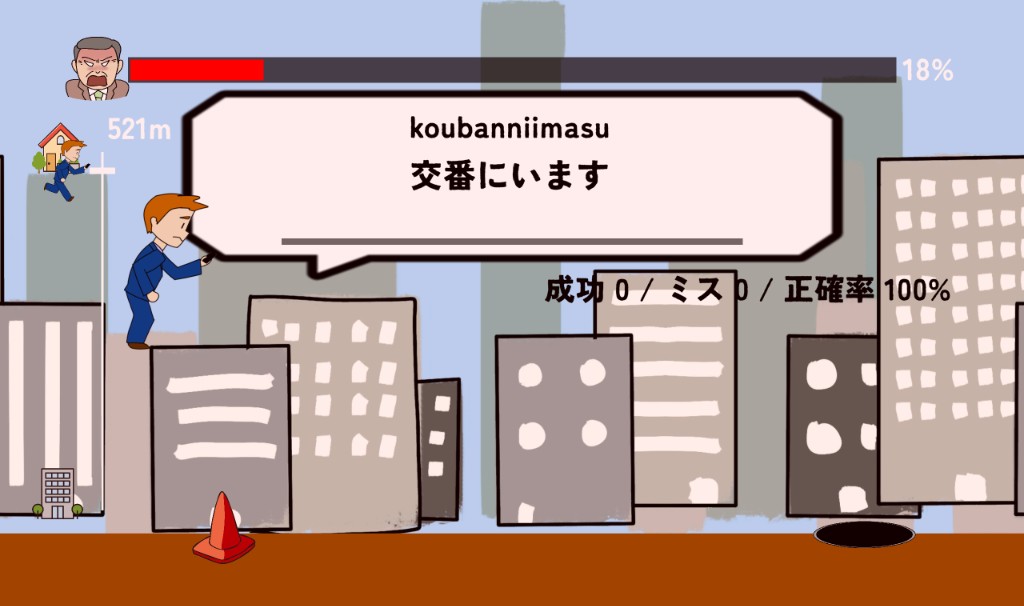
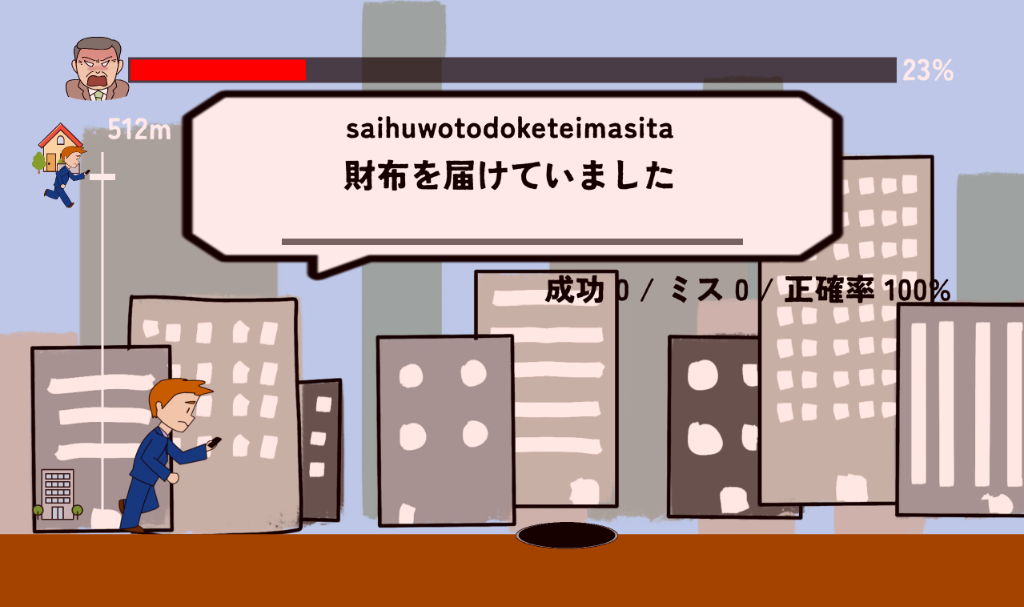
Update 全力ダッシュ thumbnail image (財布を届けていました)

diff --git a/index.html b/index.html
@@ -433,7 +433,7 @@
                 <!-- Slot 12: 全力ダッシュ～もうすぐ着きます～ -->
                 <div class="work-card" data-date-start="2026-06-02" data-date-end="2026-06-08">
                     <div class="work-img-container">
-                        <img src="assets/dash_thumbnail.png" alt="全力ダッシュ～もうすぐ着きます～" class="work-img" style="object-fit: cover; object-position: center;">
+                        <img src="assets/dash_thumbnail.png?v=20261106_06" alt="全力ダッシュ～もうすぐ着きます～" class="work-img" style="object-fit: cover; object-position: center;">
                         <div class="work-badge" data-ja="チーム制作" data-en="Team">チーム制作</div>
                     </div>
                     <div class="work-info">
